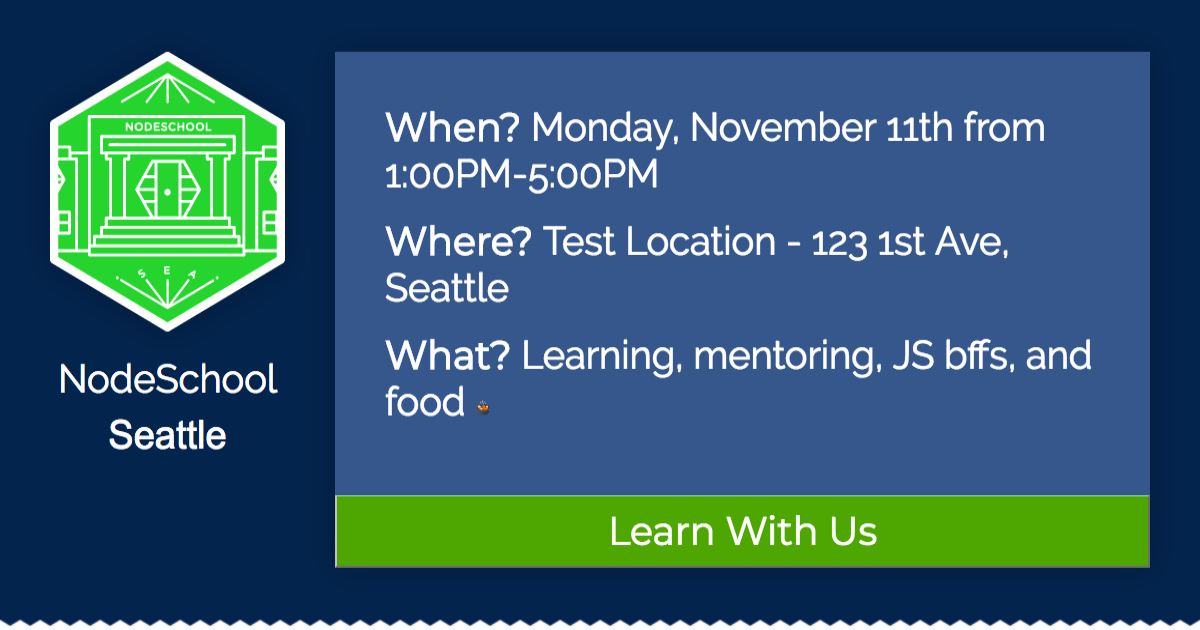
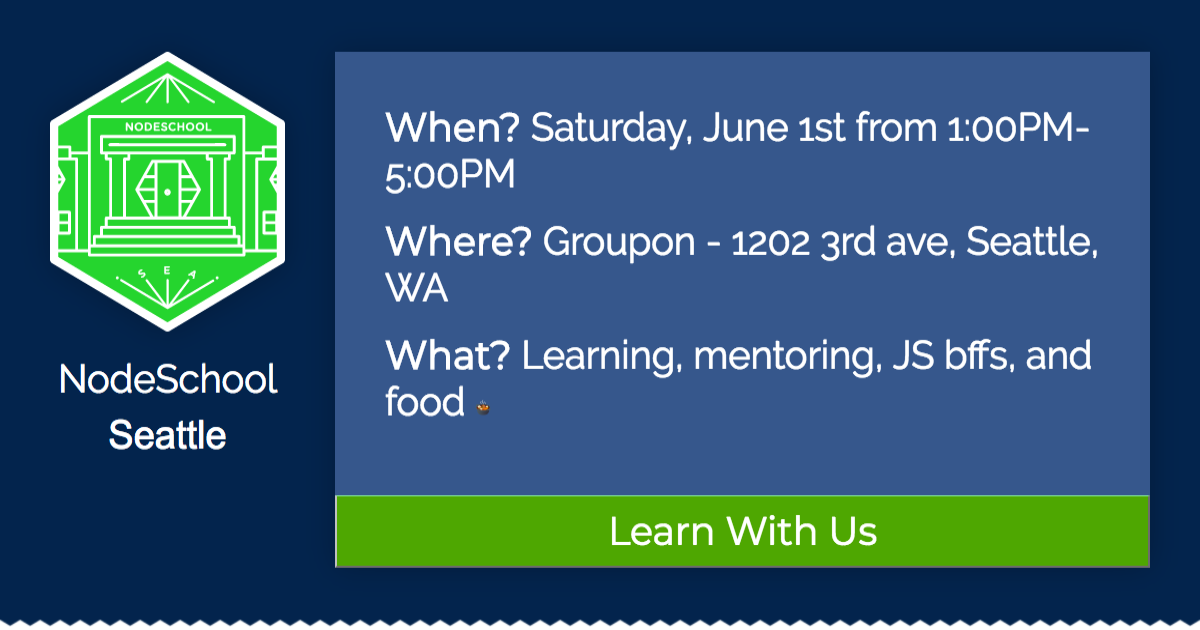
Automatic update: NodeSchool Seattle - June 2019

Changed region(s): [[0.3083, 0.181, 0.8942, 0.3016], [0.4317, 0.3619, 0.925, 0.4222], [0.3083, 0.4222, 0.4317, 0.4825]]

diff --git a/docs/social.html b/docs/social.html
@@ -23,10 +23,10 @@
             <div class="next-event__description">
               <ul class="next-event__info">
                 <li class="next-event__info__item">
-                  <strong class="strong--alt">When?</strong> Monday, November 11th from 1:00PM-5:00PM
+                  <strong class="strong--alt">When?</strong> Saturday, June 1st from 1:00PM-5:00PM
                 </li>
                 <li class="next-event__info__item">
-                  <strong class="strong--alt">Where?</strong> Test Location - 123 1st Ave, Seattle
+                  <strong class="strong--alt">Where?</strong> Groupon - 1202 3rd ave, Seattle, WA
                 </li>
                 <li class="next-event__info__item">
                   <strong class="strong--alt">What?</strong> Learning, mentoring, JS bffs, and food <img src="./images/pot-of-food.png" class="emoji" alt="pot of food emoji">
